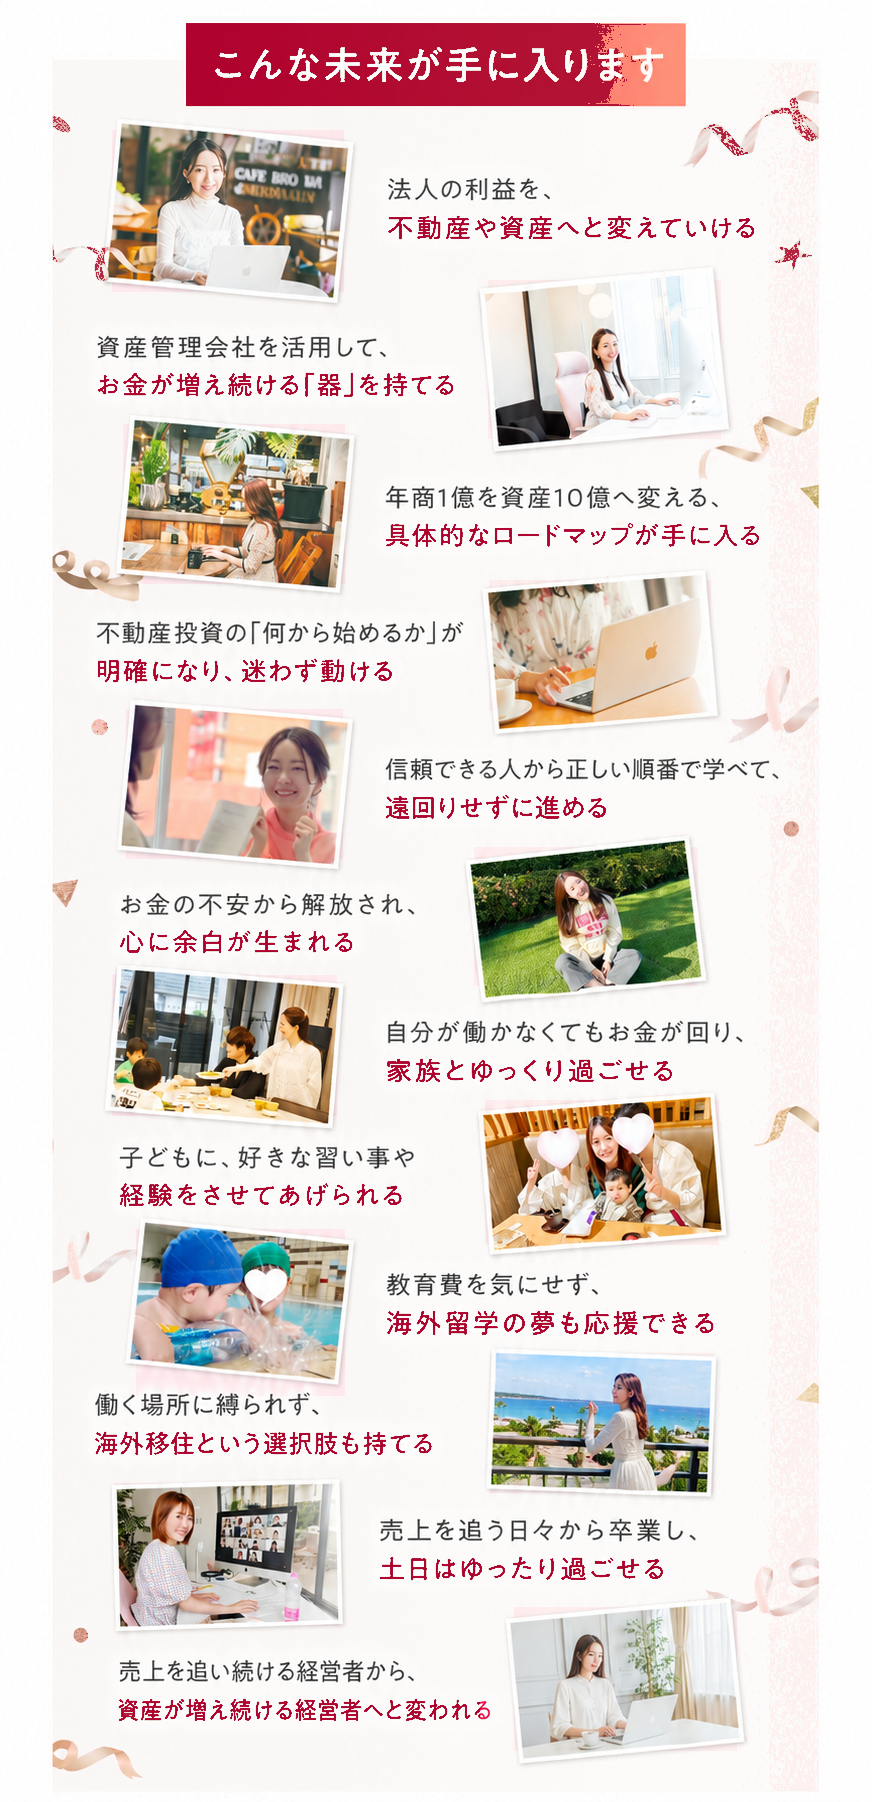
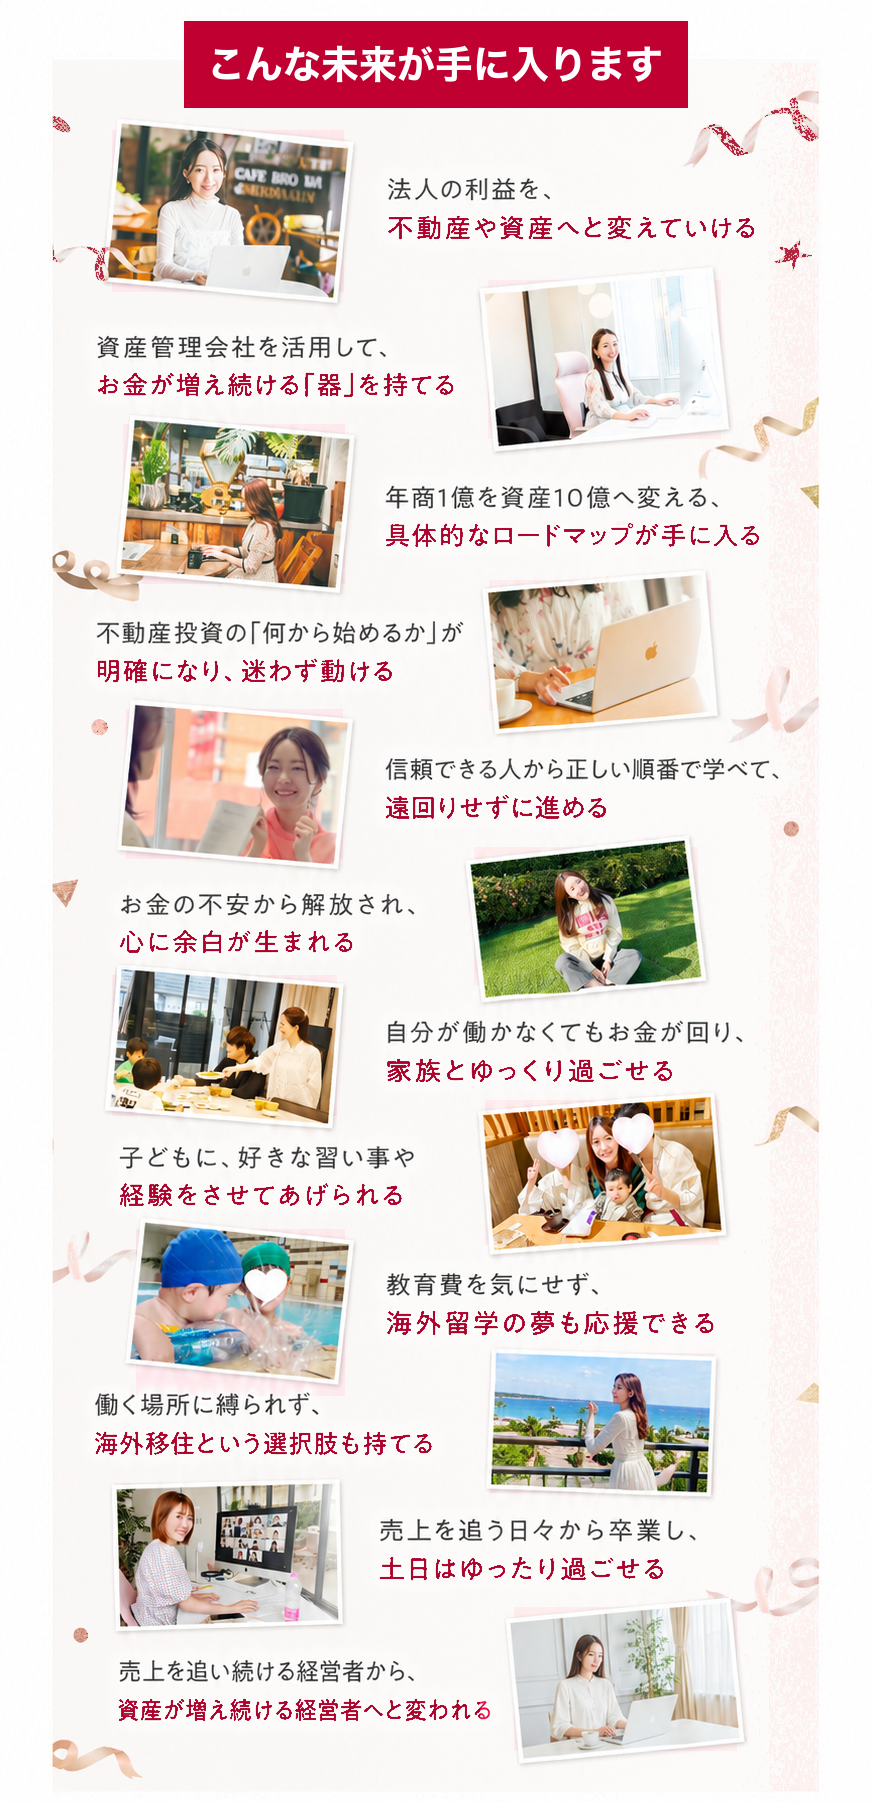
こんな未来バナーを深紅ベタ+白文字で描き直し／PC表示でFV+CTAボタンが1画面に収まるようLP幅を57vhに制限

Changed region(s): [[0.2477, 0.0, 0.805, 0.0622]]

diff --git a/index.html b/index.html
@@ -37,6 +37,10 @@ body{background:#EDE4DC;font-family:var(--sans);color:var(--ink);line-height:1.8
 img{max-width:100%;display:block;}
 a{text-decoration:none;color:inherit;}
 #lp{max-width:750px;margin:0 auto;background:#fff;box-shadow:0 0 24px rgba(60,30,40,.25);overflow:hidden;}
+/* PC: ファーストビュー+CTAボタンが1画面に収まる幅に制限（FV+CTA高さ≒幅×1.71） */
+@media (min-width:768px){
+  #lp{max-width:min(750px, 57vh);}
+}
 
 /* ---------- 共通パーツ ---------- */
 .inner{padding:0 5%;}
@@ -936,7 +940,7 @@ footer .f-copy{margin-top:14px;font-size:12px;opacity:.95;}
 
   <!-- ============ 6. こんな女性起業家にぴったり ============ -->
   <section class="fit">
-    <img class="fit-img" src="images/mirai.png?v=2" alt="こんな未来が手に入ります｜法人の利益を不動産や資産へと変えていける／資産管理会社を活用してお金が増え続ける「器」を持てる／年商1億を資産10億へ変える具体的なロードマップが手に入る／不動産投資の「何から始めるか」が明確になり迷わず動ける／信頼できる人から正しい順番で学べて遠回りせずに進める／お金の不安から解放され心に余白が生まれる／自分が働かなくてもお金が回り家族とゆっくり過ごせる／子どもに好きな習い事や経験をさせてあげられる／教育費を気にせず海外留学の夢も応援できる／働く場所に縛られず海外移住という選択肢も持てる／売上を追う日々から卒業し土日はゆったり過ごせる／売上を追い続ける経営者から資産が増え続ける経営者へと変われる">
+    <img class="fit-img" src="images/mirai.png?v=3" alt="こんな未来が手に入ります｜法人の利益を不動産や資産へと変えていける／資産管理会社を活用してお金が増え続ける「器」を持てる／年商1億を資産10億へ変える具体的なロードマップが手に入る／不動産投資の「何から始めるか」が明確になり迷わず動ける／信頼できる人から正しい順番で学べて遠回りせずに進める／お金の不安から解放され心に余白が生まれる／自分が働かなくてもお金が回り家族とゆっくり過ごせる／子どもに好きな習い事や経験をさせてあげられる／教育費を気にせず海外留学の夢も応援できる／働く場所に縛られず海外移住という選択肢も持てる／売上を追う日々から卒業し土日はゆったり過ごせる／売上を追い続ける経営者から資産が増え続ける経営者へと変われる">
   </section>
 
   <!-- ============ 7. 監修者セクション ============ -->
